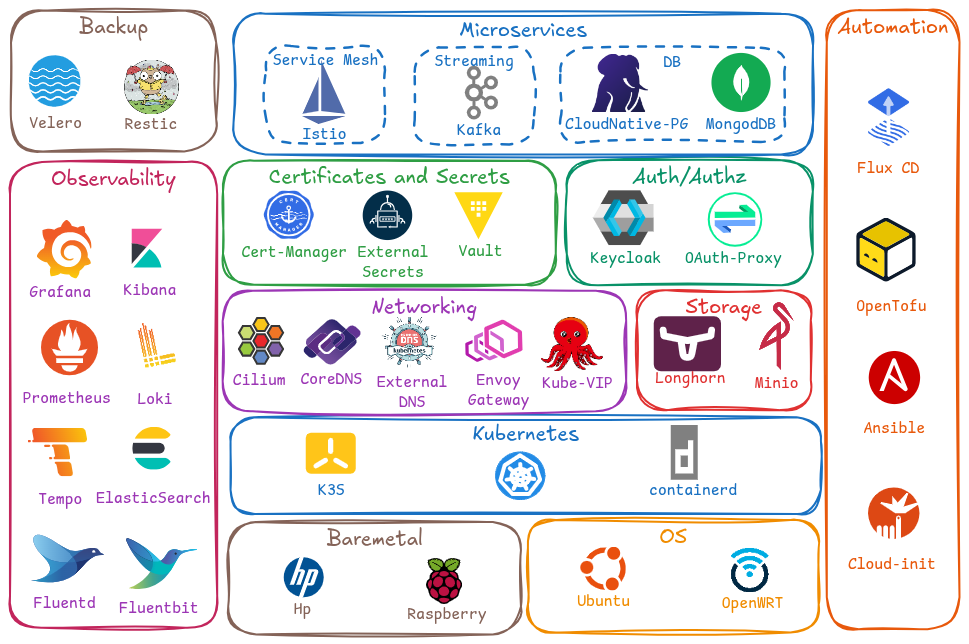
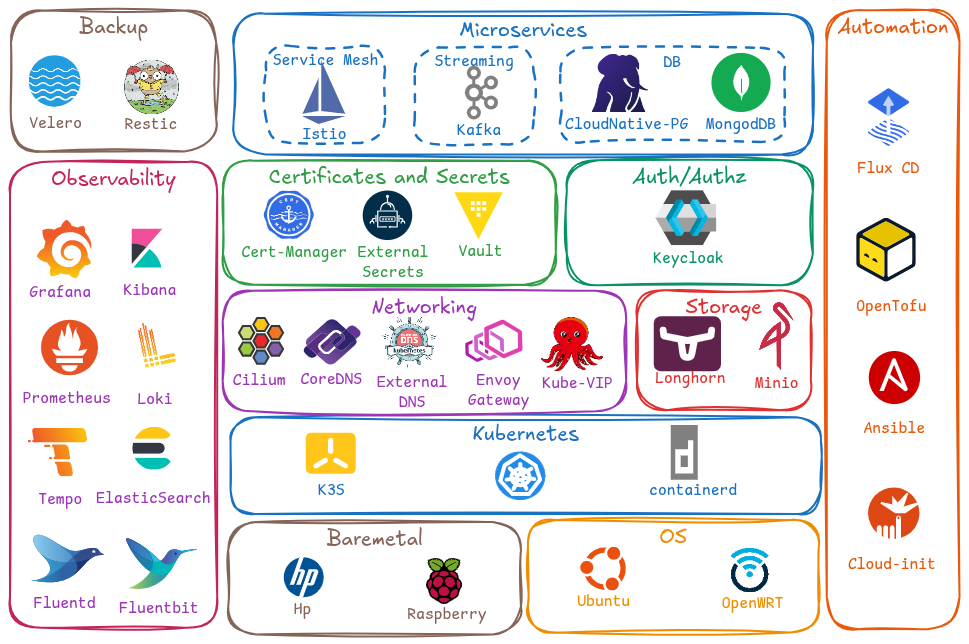
Update technology stack. oauth2-proxy as deprecated

Changed region(s): [[0.6192, 0.2795, 0.805, 0.4348]]

diff --git a/docs/_docs/index.md b/docs/_docs/index.md
@@ -70,7 +70,6 @@ The following picture shows the set of opensource solutions used for building th
 | ![vault-icon](/assets/img/logos/vault.svg){:width="32"} | [Hashicorp Vault](https://www.vaultproject.io/) | Secrets Management solution |
 | ![external-secrets-icon](/assets/img/logos/external-secrets.svg){:width="32"} | [External Secrets Operator](https://external-secrets.io/) | Sync Kubernetes Secrets from Hashicorp |
 | ![keycloak-icon](/assets/img/logos/keycloak.svg){:width="32"}         | [Keycloak](https://www.keycloak.org/)   | Identity Access Managemen     |
-| ![OAuth2-proxy-icon](/assets/img/logos/OAuth2-proxy.svg){:width="32"}     | [OAuth2 Proxy](https://oauth2-proxy.github.io/oauth2-proxy/)  | OAuth2.0 Proxy |
 | ![velero-icon](/assets/img/logos/velero.svg){:width="32"}           | [Velero](https://velero.io/)        | Kubernetes Backup and Restore solution   |
 | ![restic-icon](/assets/img/logos/restic.png){:width="32"}           | [Restic](https://restic.net/)       | OS Backup and Restore solution           |
 | ![prometheus-icon](/assets/img/logos/prometheus.svg){:width="32"}   | [Prometheus](https://prometheus.io/)  | Metrics monitoring and alerting        |
@@ -101,6 +100,7 @@ The following technologies have been used in previous releases of PiCluster but 
 | ![flannel-icon](/assets/img/logos/flannel.svg){:width="20"}  | [Flannel](https://github.com/flannel-io/flannel/) | Kubernetes CNI plugin. Embedded into K3s. Replaced by Cilium CNI |
 | ![haproxy-icon](/assets/img/logos/haproxy.svg){:width="32"} | [HAProxy](https://www.haproxy.org/)   | Kubernetes API Load-balancer. Replaced by Kube-VIP |
 | ![nginx-icon](/assets/img/logos/nginx.svg){:width="32"}     | [NGINX Ingress Controller](https://kubernetes.github.io/ingress-nginx/)  | Kubernetes Ingress Controller. Replaced by Envoy Gateway |
+| ![OAuth2-proxy-icon](/assets/img/logos/OAuth2-proxy.svg){:width="32"}     | [OAuth2 Proxy](https://oauth2-proxy.github.io/oauth2-proxy/)  | OAuth2.0 Proxy. Replaced by Envoy Gateway with OIDC integration with Keycloak |
 {: .table .border-dark }
 
 
@@ -144,11 +144,7 @@ There is another list of services that I have decided to run outside the kuberne
 | ![vault-icon](/assets/img/logos/vault.svg){:width="32"} |[Hashicorp Vault](https://www.vaultproject.io/) | Secrets Management | Cluster secrets management |
 {: .table .border-dark .align-middle }
 
-
-Minio backup servive is hosted in a VM running in Public Cloud, using [Oracle Cloud Infrastructure (OCI) free tier](https://www.oracle.com/es/cloud/free/).
-
-Vault service is running in one of the cluster nodes, `node1`, since Vault kubernetes authentication method needs access to Kubernetes API, I won't host Vault service in Public Cloud.
-
+Vault and Minio services are running in one of the cluster nodes, `node1`, to keep them locally accessible to the cluster and to avoid exposing them to the public internet.
 
 ## What I have built so far
 

diff --git a/README.md b/README.md
@@ -155,11 +155,6 @@ The following picture shows the set of opensource solutions used so far in the c
         <td>Identity Access Management</td>
     </tr>
     <tr>
-        <td><img width="32" src="docs/assets/img/logos/OAuth2-proxy.svg" alt="oauth2-proxy logo"></td>
-        <td><a href="https://oauth2-proxy.github.io/oauth2-proxy/">OAuth2.0 Proxy</a></td>
-        <td>OAuth2.0 Proxy</td>
-    </tr>
-    <tr>
         <td><img width="32" src="docs/assets/img/logos/velero.svg"></td>
         <td><a href="https://velero.io/">Velero</a></td>
         <td>Kubernetes Backup and Restore solution</td>
@@ -245,6 +240,8 @@ The following technologies have been used in previous releases of PiCluster but 
 | <img width="20" src="docs/assets/img/logos/flannel.svg" > | [Flannel](https://github.com/flannel-io/flannel/) | Kubernetes CNI plugin. Embedded into K3s. Replaced by Cilium CNI |
 | <img width="32" src="docs/assets/img/logos/haproxy.svg" > | [HAProxy](https://www.haproxy.org/)   | Kubernetes API Load-balancer. Replaced by Kube-VIP |
 | <img width="32" src="docs/assets/img/logos/nginx.svg" > | [NGINX Ingress Controller](https://kubernetes.github.io/ingress-nginx/)  | Kubernetes Ingress Controller. Replaced by Envoy Gateway |
+| <img width="32" src="docs/assets/img/logos/OAuth2-proxy.svg" > | [OAuth2 Proxy](https://oauth2-proxy.github.io/oauth2-proxy/)  | OAuth2.0 Proxy. Replaced by Envoy Gateway with OIDC integration with Keycloak |
+
 
 
 ## External Resources and Services
@@ -282,9 +279,7 @@ There is another list of services that I have decided to run outside the kuberne
 | <img width="60" src="docs/assets/img/logos/minio.svg"> |[Minio](https://min.io) | S3 Object Store | Cluster Backup  |
 | <img width="32" src="docs/assets/img/logos/vault.svg"> |[Hashicorp Vault](https://www.vaultproject.io/) | Secrets Management | Cluster secrets management |
 
-Minio backup servive is hosted in a VM running in Public Cloud, using [Oracle Cloud Infrastructure (OCI) free tier](https://www.oracle.com/es/cloud/free/).
-
-Vault service is running in `node1` node, since Vault kubernetes authentication method needs access to Kubernetes API, I won't host Vault service in Public Cloud.
+Vault and Minio services are running in one of the cluster nodes, `node1`, to keep them locally accessible to the cluster and to avoid exposing them to the public internet.
 
 ## Cluster architecture and hardware
 
